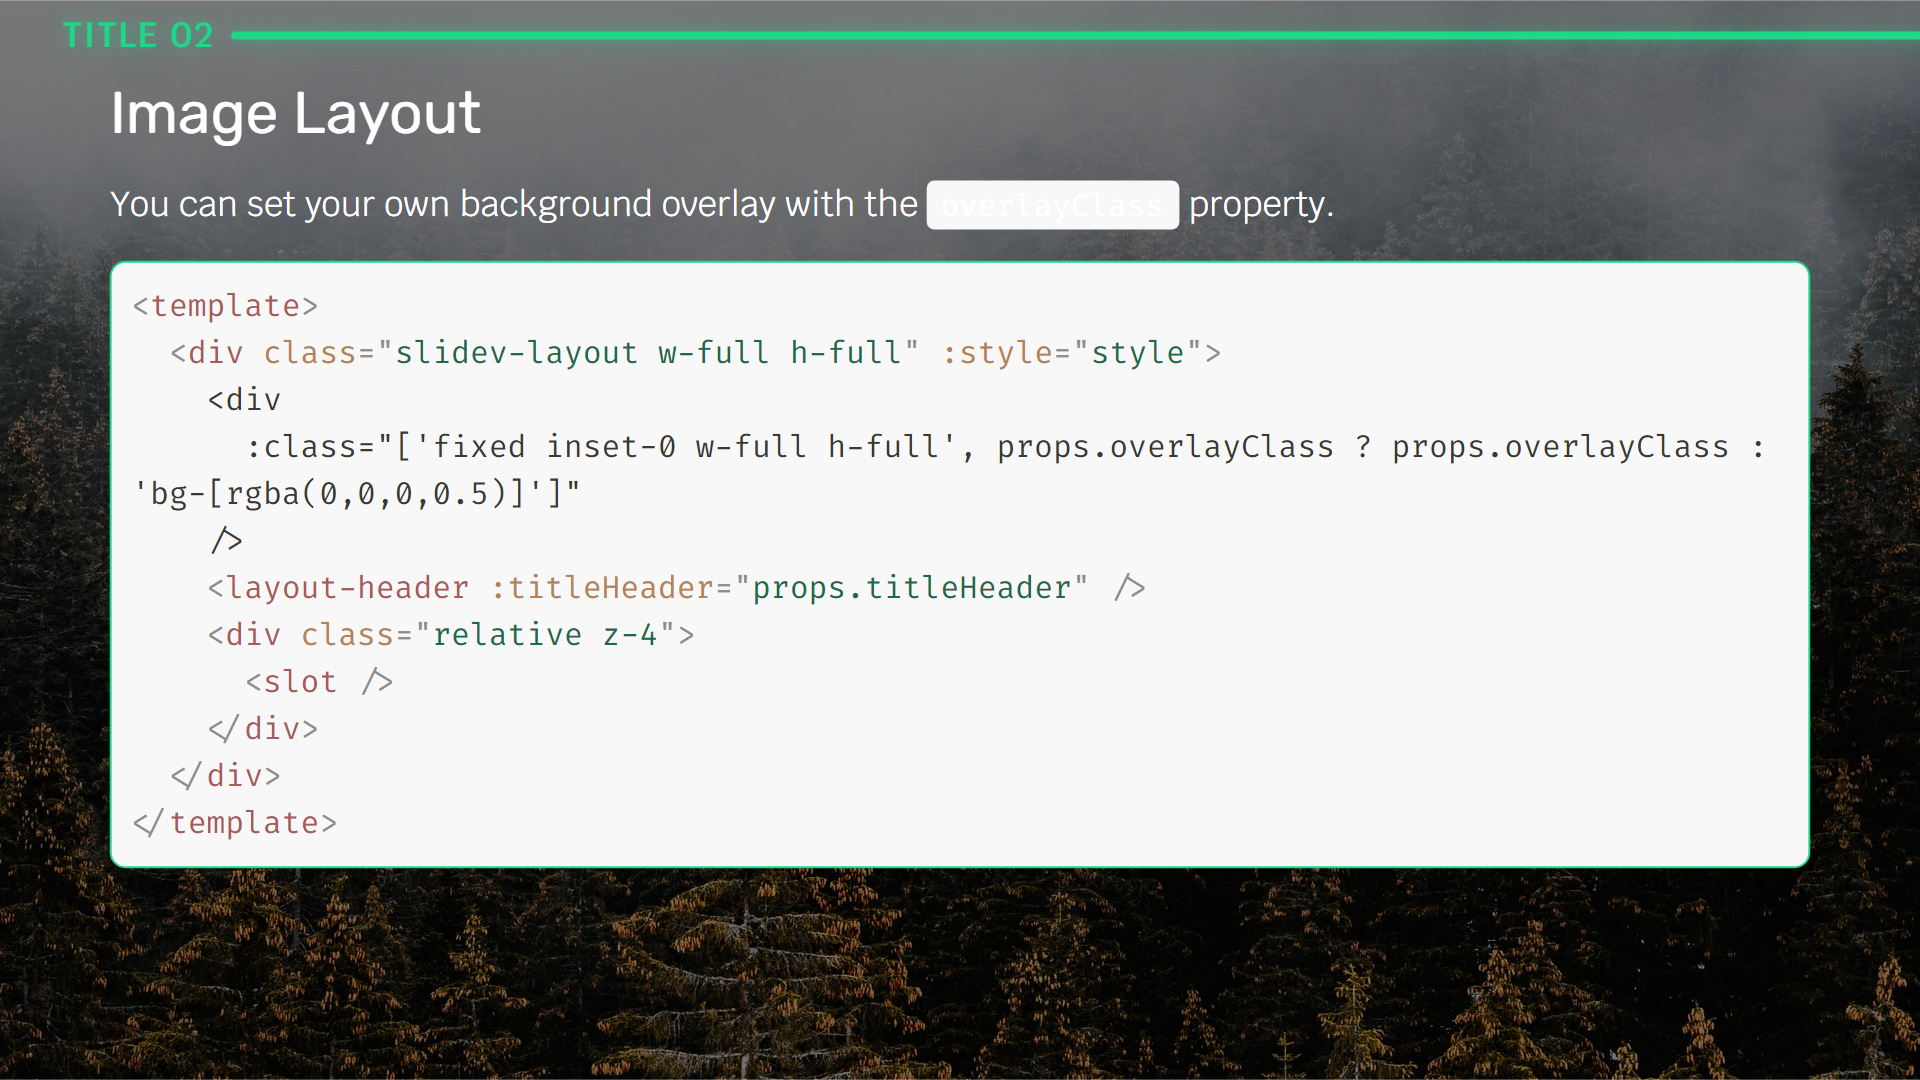
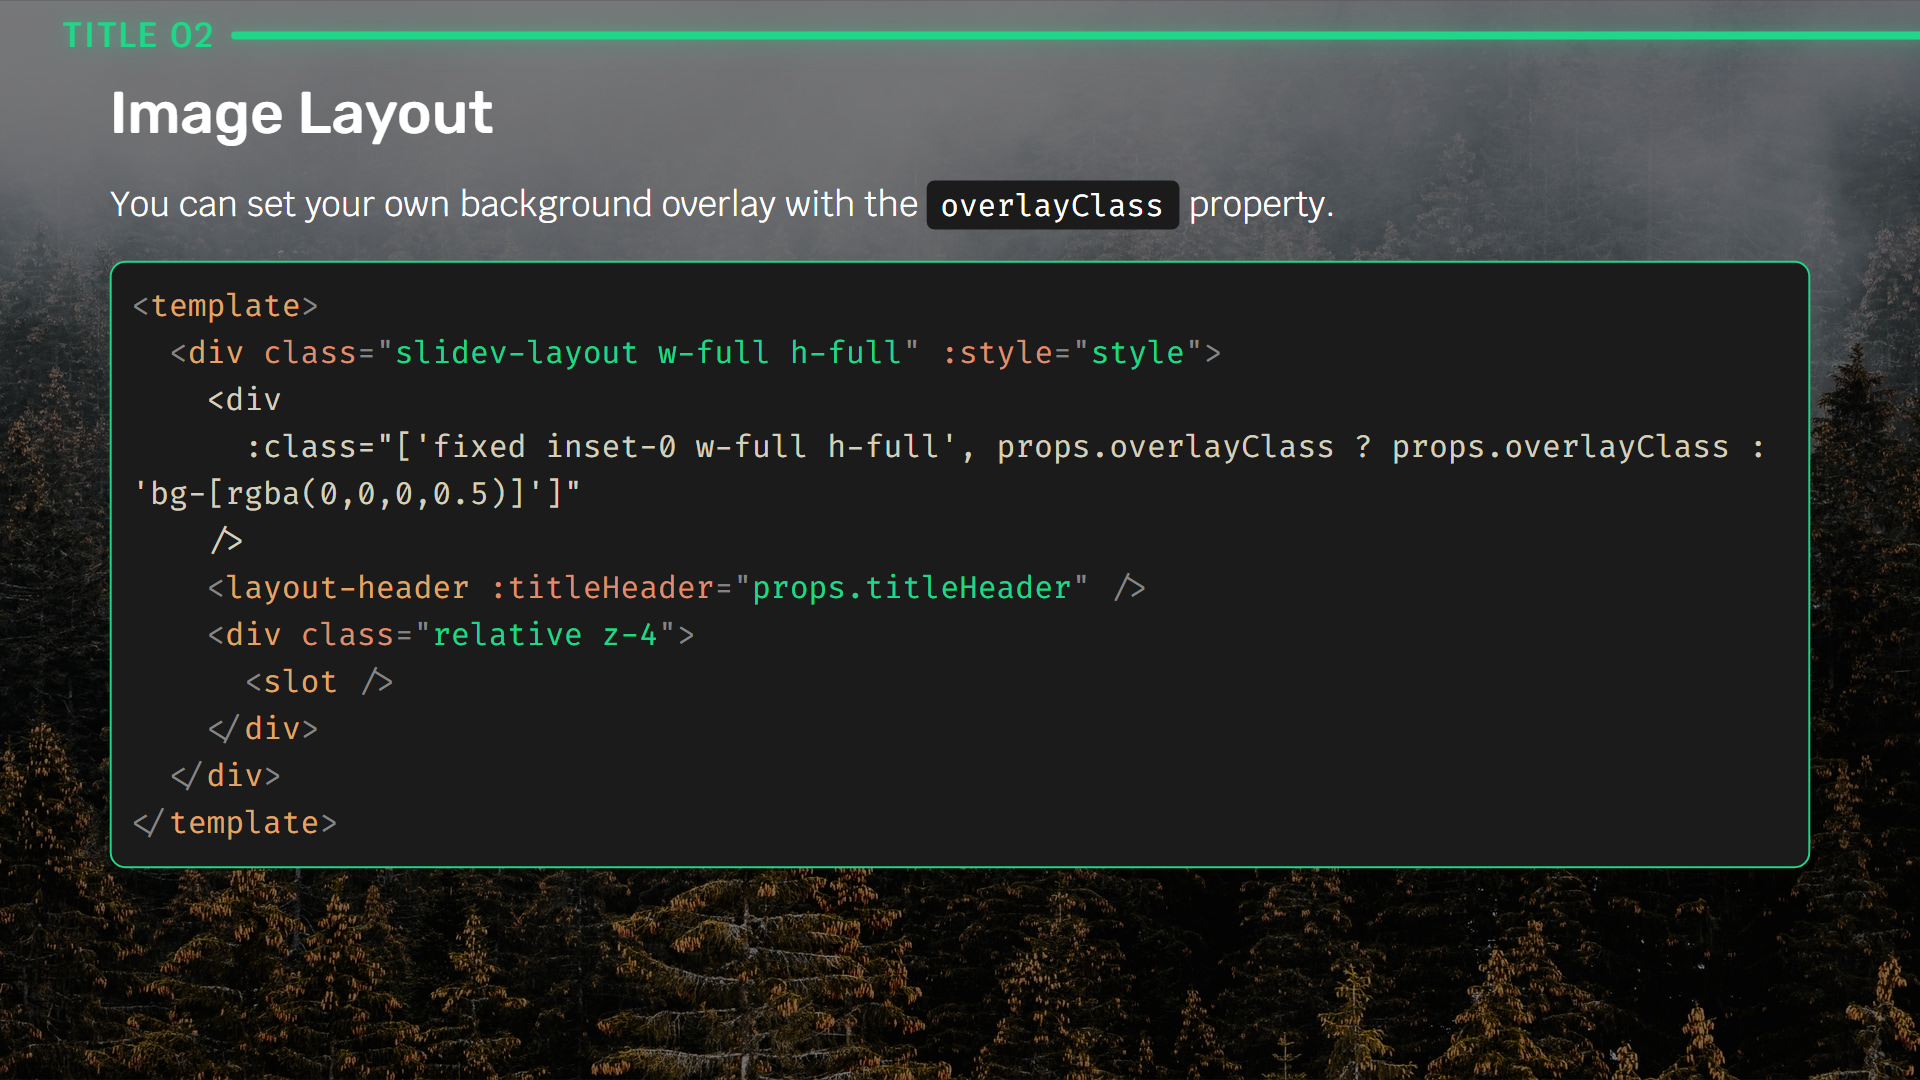
📝 DOC: add screenshots to readme.md

diff --git a/styles/layout.css b/styles/layout.css
@@ -19,12 +19,16 @@
     @apply uppercase font-bold;
   }
 
+  h2 {
+    @apply font-medium;
+  }
+
   ul {
     list-style: disc;
   }
 
   a {
-    @apply text-$slidev-theme-primary border-b border-solid;
+    @apply text-$slidev-theme-primary font-semibold dark:font-normal border-b border-solid;
     &:hover {
       filter: drop-shadow(0 0 3px rgba(var(--glow), 0.29))
         drop-shadow(0 0 7px rgba(var(--glow), 0.35));

diff --git a/setup/windicss.ts b/setup/windicss.ts
@@ -10,7 +10,7 @@ export default defineWindiSetup(() => ({
   shortcuts: {
     // custom the default background
     'bg-main': 'bg-white text-[#181818] dark:(bg-[#202226] text-[#ddd])',
-    'header-title': 'text-lg uppercase font-bold ml-8 tracking-wider',
+    'header-title': 'text-lg uppercase font-semibold ml-8 tracking-wider',
     'glow': 'text-$slidev-theme-primary',
   },
 }))

diff --git a/styles/code.css b/styles/code.css
@@ -73,7 +73,7 @@ pre[class*='language-'] {
 :not(pre) > code {
   font-size: 0.9em;
   background: var(--prism-background);
-  @apply font-light py-0.5 rounded;
+  @apply text-black dark:text-current font-light py-0.5 rounded;
   font-stretch: expanded;
 }
 

diff --git a/README.md b/README.md
@@ -2,7 +2,7 @@
 
 [![NPM version](https://img.shields.io/npm/v/slidev-theme-codeg?color=3AB9D4&label=)](https://www.npmjs.com/package/slidev-theme-codeg)
 
-A (...) theme for [Slidev](https://github.com/slidevjs/slidev).
+A simple theme for [Slidev](https://github.com/slidevjs/slidev).
 
 <!--
   Learn more about how to write a theme:
@@ -11,12 +11,6 @@ A (...) theme for [Slidev](https://github.com/slidevjs/slidev).
 
 <!--
   run `npm run dev` to check out the slides for more details of how to start writing a theme
--->
-
-<!--
-  Put some screenshots here to demonstrate your theme
-
-  Live demo: [...]
 -->
 
 ## Install
@@ -33,17 +27,34 @@ Learn more about [how to use a theme](https://sli.dev/themes/use).
 
 This theme provides the following layouts:
 
-
+`default`
+![default](screenshots/04.png)
+`cover`
+![default](screenshots/01.png)
+`quote`
+![default](screenshots/02.png)
+`section`
+![default](screenshots/03.png)
+`center`
+![default](screenshots/11.png)
+`two-cols`
+![default](screenshots/10.png)
+`image`
+![default](screenshots/05.png)
+`image-left`
+![default](screenshots/08.png)
+`image-right`
+![default](screenshots/09.png)
 
 ## Components
 
 This theme provides the following components:
 
-> - LayoutHeader.vue
+- LayoutHeader.vue
 
 ## Example
 
-See example.md
+See [example.md](https://github.com/luis-vivas/slidev-theme-codeg/blob/main/example.md)
 
 ## Contributing
 

diff --git a/example.md b/example.md
@@ -5,6 +5,7 @@ info: |
   My first [Slidev](http://sli.dev/) presentations!
 title: Codeg Theme
 hideInToc: true
+colorSchema: 'dark'
 fonts:
   # like font-family in css, you can use `,` to separate multiple fonts for fallback
   mono: 'Fira Code'
